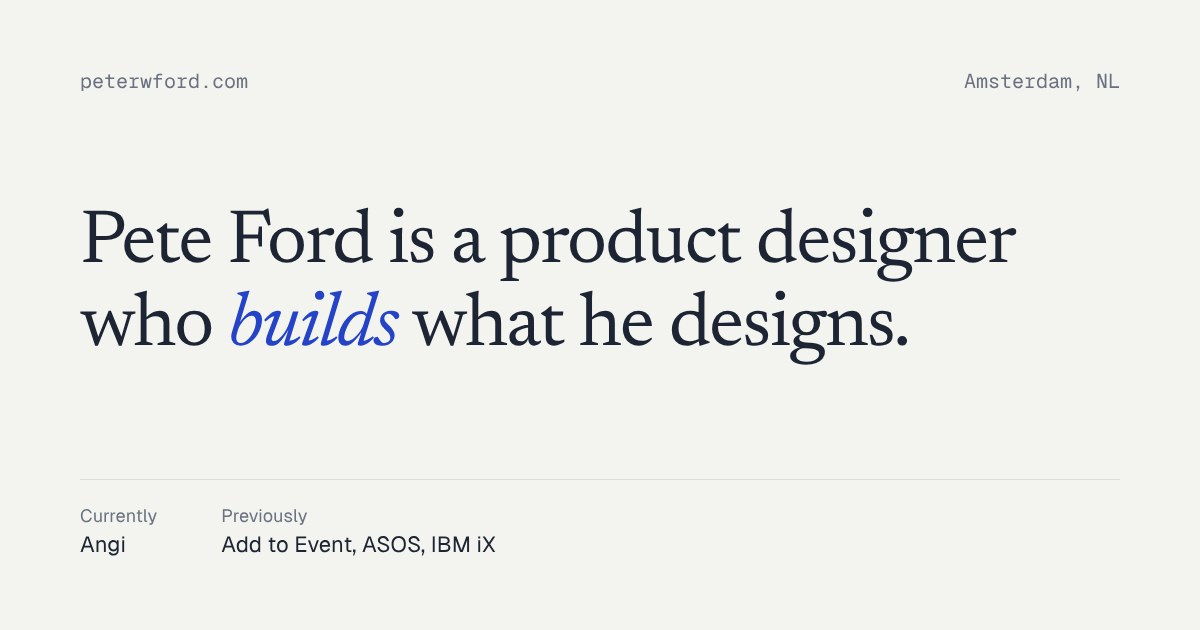
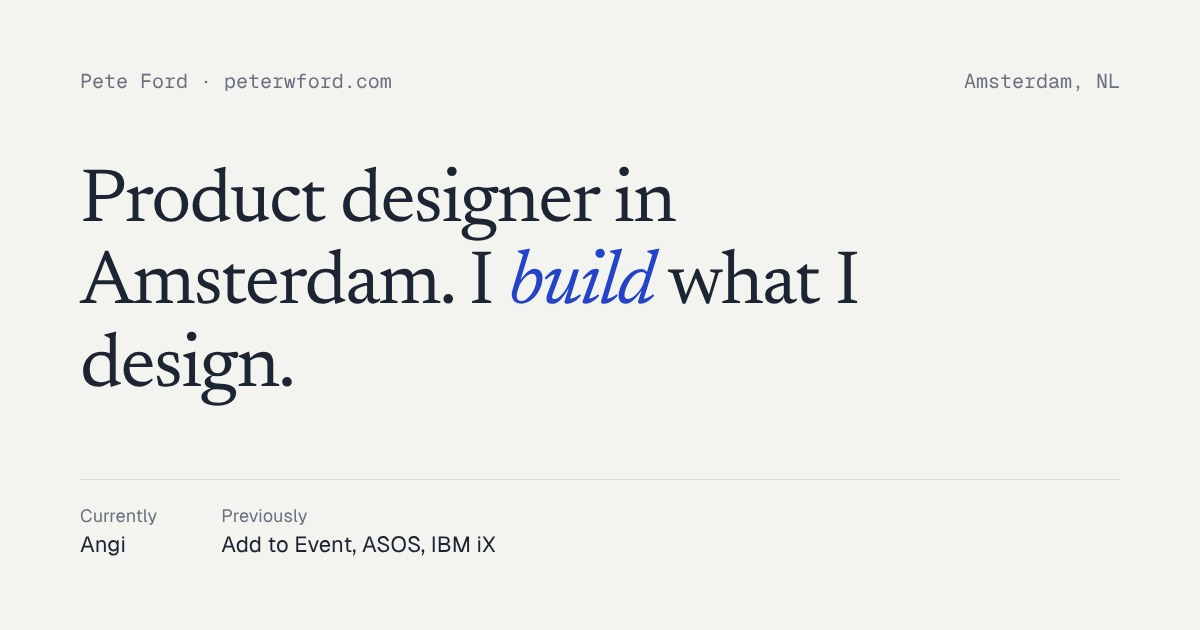
Homepage headline without the name; matching share image
Claude-Session: https://claude.ai/code/session_01SYbSBUzJeep6TKCUkfML61

Changed region(s): [[0.0617, 0.2714, 0.8633, 0.6635], [0.0617, 0.1206, 0.3392, 0.1508]]

diff --git a/index.html b/index.html
@@ -40,7 +40,7 @@
 
   <main id="main">
     <section class="hero wrap" id="top">
-      <h1>Pete Ford is a product designer in Amsterdam who <em>builds</em> what he designs.</h1>
+      <h1>Product designer in Amsterdam. I <em>build</em> what I design.</h1>
       <dl class="ledger">
         <div>
           <dt>Currently</dt>
